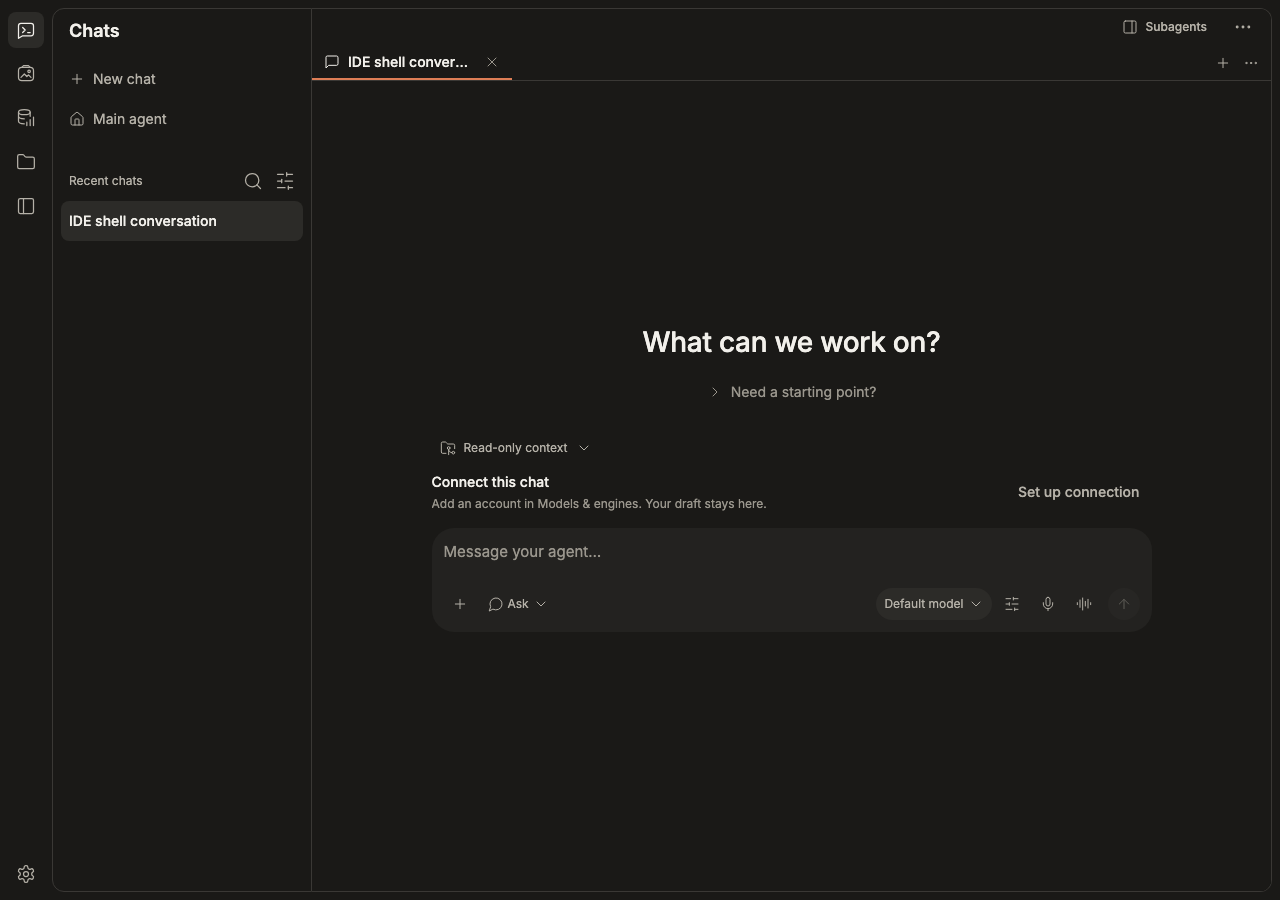
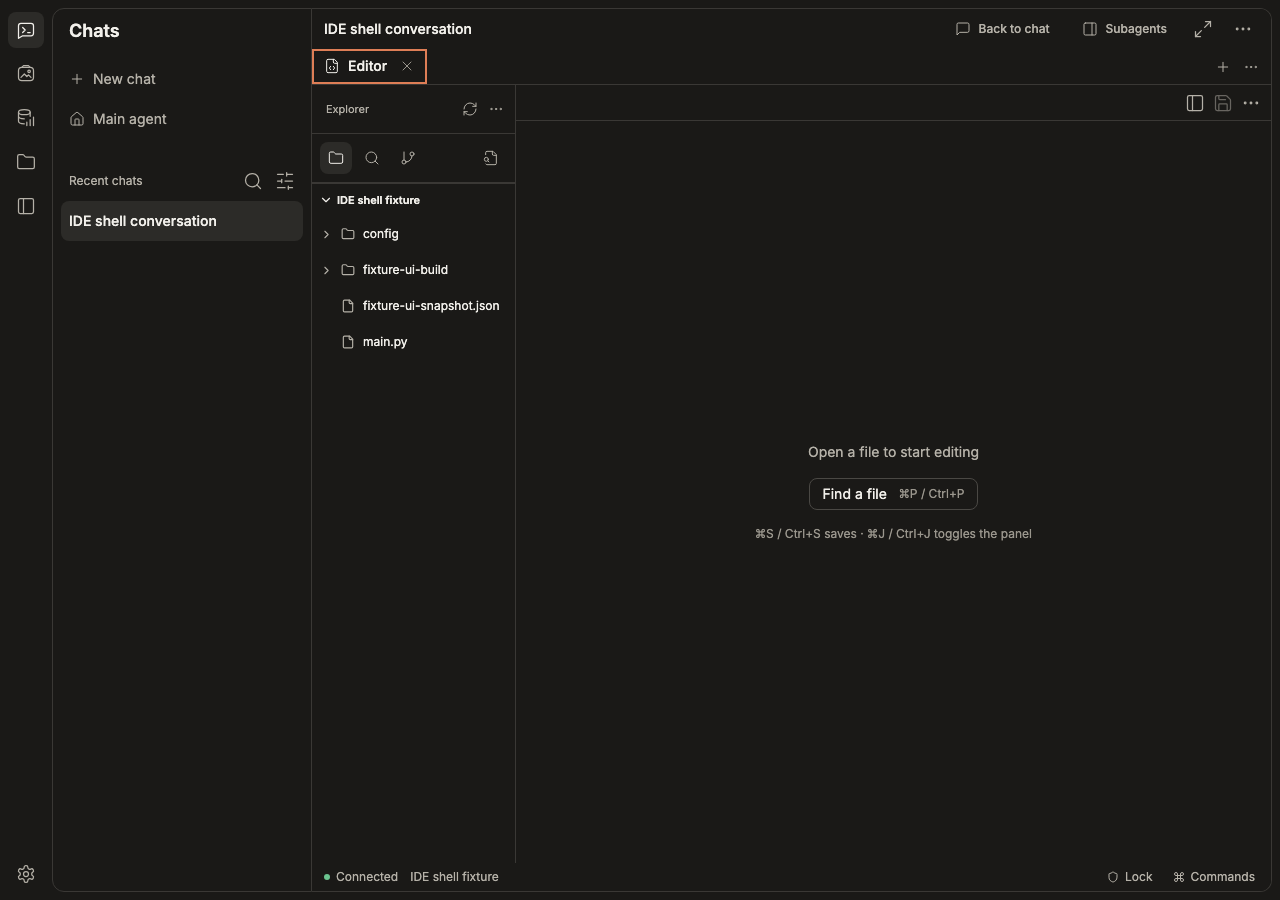
Document the layout engine; scroll the tab strip itself; capture every state at 375 and 1280
- docs/workspace-ui.md: the U3 section (model, reducer, rendering, storage, keys, what is not in the preview).
- The active tab stays in view when its strip overflows or a title arrives late (the strip scrolls, not its ancestors).
- Tests for the engine flag, tab refs, manager pages and the shell context helpers.
- U3 evidence: default, two-way split, three groups, panel with terminal, maximized and drag-over at 1280x900,
  and every state except the drag at 375x812, in light and dark.

diff --git a/desktop/workspace/src/shell/tree-layout.test.ts b/desktop/workspace/src/shell/tree-layout.test.ts
@@ -1,0 +1,141 @@
+import {afterEach, describe, expect, it} from 'vitest';
+import {allTabs, editorGroups, validateLayout, type Group} from '../lib/layout/model';
+import {
+  SHELL_ENGINE_KEY,
+  readShellEngine,
+  resetShellEngineMemory,
+  storedShellEngine,
+  urlShellEngine,
+  writeShellEngine,
+} from '../lib/shell-engine';
+import {managerReturnLabel, pageBehindSettings, statusContext, statusContextPath, isControlPage, runningBrowserTaskId} from './shell-context';
+import {managerTab, oneTabLayout, resolveTabRef} from './use-tree-layout';
+
+afterEach(() => {
+  localStorage.clear();
+  resetShellEngineMemory();
+});
+
+describe('the shell engine flag', () => {
+  it('reads ?shell=ide as the tab layout and ?shell=classic or legacy as the old dock', () => {
+    expect(urlShellEngine('?shell=ide')).toBe('tree');
+    expect(urlShellEngine('?shell=classic')).toBe('legacy');
+    expect(urlShellEngine('?shell=legacy')).toBe('legacy');
+    expect(urlShellEngine('?shell=other')).toBeNull();
+    expect(urlShellEngine('')).toBeNull();
+  });
+
+  it('defaults to the old dock, follows the stored choice, and lets the address win', () => {
+    expect(readShellEngine('', localStorage)).toBe('legacy');
+    localStorage.setItem(SHELL_ENGINE_KEY, 'on');
+    expect(storedShellEngine(localStorage)).toBe('tree');
+    expect(readShellEngine('', localStorage)).toBe('tree');
+    expect(readShellEngine('?shell=classic', localStorage)).toBe('legacy');
+    localStorage.setItem(SHELL_ENGINE_KEY, 'maybe');
+    expect(readShellEngine('', localStorage)).toBe('legacy');
+  });
+
+  it('writes and clears the stored choice, and survives storage that throws', () => {
+    writeShellEngine('tree', localStorage);
+    expect(localStorage.getItem(SHELL_ENGINE_KEY)).toBe('on');
+    writeShellEngine('legacy', localStorage);
+    expect(localStorage.getItem(SHELL_ENGINE_KEY)).toBeNull();
+    const broken = {
+      getItem: () => {
+        throw new Error('blocked');
+      },
+      setItem: () => {
+        throw new Error('blocked');
+      },
+      removeItem: () => {
+        throw new Error('blocked');
+      },
+    };
+    expect(storedShellEngine(broken)).toBe('legacy');
+    expect(() => writeShellEngine('tree', broken)).not.toThrow();
+  });
+
+  it('is named so a person can find and clear it', () => {
+    expect(SHELL_ENGINE_KEY).toBe('termx-new-workspace-layout');
+  });
+});
+
+describe('tab refs and manager pages', () => {
+  it('keeps tabs without a ref and checks the ones that have one', () => {
+    expect(resolveTabRef({id: 'a', kind: 'file'})).toBe(true);
+    expect(resolveTabRef({id: 'a', kind: 'settings', ref: 'models'})).toBe(true);
+    expect(resolveTabRef({id: 'a', kind: 'settings', ref: 'general'})).toBe(true);
+    expect(resolveTabRef({id: 'a', kind: 'settings', ref: 'nonsense'})).toBe(false);
+    expect(resolveTabRef({id: 'a', kind: 'projects', ref: 'tasks'})).toBe(true);
+    expect(resolveTabRef({id: 'a', kind: 'projects', ref: 'models'})).toBe(false);
+    expect(resolveTabRef({id: 'a', kind: 'workflows', ref: 'a'.repeat(32)})).toBe(true);
+    expect(resolveTabRef({id: 'a', kind: 'workflows', ref: 'not a run'})).toBe(false);
+  });
+
+  it('maps a manager page to a tab kind and ref', () => {
+    expect(managerTab('')).toBeNull();
+    expect(managerTab('workflows')).toEqual({kind: 'workflows'});
+    expect(managerTab('projects')).toEqual({kind: 'projects', ref: 'projects'});
+    expect(managerTab('overview')).toEqual({kind: 'projects', ref: 'overview'});
+    expect(managerTab('tasks')).toEqual({kind: 'projects', ref: 'tasks'});
+    expect(managerTab('models')).toEqual({kind: 'settings', ref: 'models'});
+    // Aliases resolve to their category.
+    expect(managerTab('appearance')).toEqual({kind: 'settings', ref: 'preferences'});
+    expect(managerTab('mcp')).toEqual({kind: 'settings', ref: 'connections'});
+  });
+
+  it('builds the one-tab layout a detached window opens with', () => {
+    const layout = oneTabLayout('file');
+    expect(editorGroups(layout.root)).toHaveLength(1);
+    expect(allTabs(layout).filter(tab => tab.kind === 'file')).toHaveLength(1);
+    expect((layout.root as Group).tabs.map(tab => tab.kind)).toEqual(['file']);
+    expect(layout.sideBar.visible).toBe(false);
+    expect(layout.panel.visible).toBe(false);
+    expect(validateLayout(layout)).toEqual(layout);
+  });
+});
+
+describe('shell context', () => {
+  const base = {
+    workspace: 'agent' as const,
+    manager: '',
+    previousManager: '',
+    session: null,
+    selected: '',
+    project: null,
+    projectWorkbenchId: '',
+    sessionsState: 'ready',
+    studioProject: null,
+    studioProjectId: '',
+  };
+
+  it('names the way back from a manager page', () => {
+    expect(managerReturnLabel(base)).toBe('Back to chat');
+    expect(managerReturnLabel({...base, projectWorkbenchId: 'p'})).toBe('Back to files');
+    expect(managerReturnLabel({...base, projectWorkbenchId: 'p', selected: 's'})).toBe('Back to chat');
+    expect(managerReturnLabel({...base, workspace: 'data'})).toBe('Back to Data');
+    expect(managerReturnLabel({...base, workspace: 'studio'})).toBe('Back to Studio');
+    expect(managerReturnLabel({...base, manager: 'models', previousManager: 'projects'})).toMatch(/^Back to /);
+  });
+
+  it('shows the project, or why there is none', () => {
+    expect(statusContext(base)).toBe('No project open');
+    expect(statusContext({...base, sessionsState: 'loading'})).toBe('Loading project context…');
+    expect(statusContext({...base, projectWorkbenchId: 'p'})).toBe('Project unavailable');
+    expect(statusContext({...base, workspace: 'data'})).toBe('Data workspace');
+    expect(statusContext({...base, workspace: 'studio'})).toBe('No project');
+    expect(statusContext({...base, workspace: 'studio', studioProjectId: 'x'})).toBe('Project unavailable');
+    expect(statusContext({...base, workspace: 'studio', studioProject: {name: 'Films'}})).toBe('Films');
+    expect(statusContextPath({...base, workspace: 'data'})).toBeUndefined();
+    expect(statusContextPath({...base, workspace: 'studio', studioProject: {name: 'Films', path: '/films'}})).toBe('/films');
+  });
+
+  it('tells control pages from other pages and finds the page behind settings', () => {
+    expect(isControlPage('overview')).toBe(true);
+    expect(isControlPage('tasks')).toBe(true);
+    expect(isControlPage('models')).toBe(false);
+    expect(pageBehindSettings('models', 'projects')).toBe('projects');
+    expect(pageBehindSettings('projects', 'tasks')).toBe('projects');
+    expect(runningBrowserTaskId(null)).toBeNull();
+  });
+});

diff --git a/desktop/workspace/src/components/shell/TabGroups.tsx b/desktop/workspace/src/components/shell/TabGroups.tsx
@@ -238,12 +238,20 @@ function GroupFrame(props: FrameProps) {
   const [menu, setMenu] = useState<{tab: Tab; x: number; y: number} | null>(null);
   const list = useRef<HTMLDivElement>(null);
   const active = group.tabs.find(tab => tab.id === group.active);
+  // A tab's title can change after it is shown (the conversation's name arrives late) and change its width.
+  const titles = group.tabs.map(titleOf).join('\u0000');
 
-  // Keep the active tab in view when the strip overflows.
+  // Keep the active tab in view when the strip overflows. Scroll the strip itself, not every ancestor: scrollIntoView would
+  // also shift an `overflow: hidden` workspace sideways.
   useEffect(() => {
-    if (!group.active) return;
-    document.getElementById('tab-' + group.active)?.scrollIntoView?.({block: 'nearest', inline: 'nearest'});
-  }, [group.active, group.tabs.length, rect.w]);
+    const strip = list.current;
+    const tab = group.active ? document.getElementById('tab-' + group.active) : null;
+    if (!strip || !tab) return;
+    const a = tab.getBoundingClientRect();
+    const b = strip.getBoundingClientRect();
+    if (a.left < b.left) strip.scrollLeft -= b.left - a.left;
+    else if (a.right > b.right) strip.scrollLeft += a.right - b.right;
+  }, [group.active, group.tabs.length, titles, rect.w]);
 
   function select(id: string) {
     if (props.onSelect) props.onSelect(id);

diff --git a/tests/workspace_ide_shell_e2e.py b/tests/workspace_ide_shell_e2e.py
@@ -131,10 +131,15 @@ def run(destination: str, axe_path: str | None) -> None:
                 page.on('pageerror', lambda error: report['errors'].append(str(error)))
                 step = lambda name: report['steps'].append(f'{scheme}: {name}')
 
-                def shot(label: str, width: int = 1280) -> None:
+                books: dict[str, dict] = {}
+
+                def shot(label: str, width: int = 1280, remember: bool = True) -> None:
                     settle(page)
                     page.screenshot(path=str(out / f'{label}-{scheme}-{width}.png'))
                     no_overflow(page, f'{label}-{scheme}-{width}', report)
+                    if remember:
+                        page.wait_for_timeout(300)
+                        books[label] = stored_layout(page)
 
                 # --- default layout: one group, the chat, the side bar open, no panel ---------------------------
                 sign_in(page, base, session['id'])
@@ -197,13 +202,14 @@ def run(destination: str, axe_path: str | None) -> None:
                 page.mouse.move(target_box['x'] + 30, target_box['y'] + target_box['height'] / 2 + 40, steps=12)
                 hint = page.locator('.tab-drop')
                 expect(hint).to_have_attribute('data-zone', 'left')
-                shot('drag-over-drop-zone')
+                shot('drag-over-drop-zone', remember=False)
                 page.mouse.up()
                 expect(page.locator('.tab-drop')).to_have_count(0)
                 step('dragged a tab to the left drop zone of another group')
 
                 # --- maximize and restore -----------------------------------------------------------------------------------
                 count = groups(page)
+                page.get_by_role('tab', name='Editor').click()
                 page.keyboard.press('ControlOrMeta+k')
                 page.keyboard.press('z')
                 expect(page.locator(EDITOR_GROUPS)).to_have_count(1)
@@ -240,7 +246,7 @@ def run(destination: str, axe_path: str | None) -> None:
                 no_overflow(page, f'{scheme}-1280', report)
                 context.close()
 
-                # --- the 375px projection --------------------------------------------------------------------------------------------
+                # --- the 375px projection: every desktop state, folded into one tab stack ----------------------------------
                 phone = browser.new_context(viewport={'width': 375, 'height': 812}, color_scheme=scheme, reduced_motion='reduce', has_touch=False)
                 small = phone.new_page()
                 small.on('pageerror', lambda error: report['errors'].append(str(error)))
@@ -249,28 +255,35 @@ def run(destination: str, axe_path: str | None) -> None:
                 small.get_by_label('Password', exact=True).fill(PASSWORD)
                 small.get_by_role('button', name='Continue with password').click()
                 small.locator('.tab-list').first.wait_for(timeout=60000)
-                # Start from the same stored layout as the desktop window: let the first layout finish saving, copy the
-                # desktop book over it and reload.
-                small.wait_for_timeout(600)
-                small.evaluate("(layout) => { const key = Object.keys(localStorage).find(item => item.startsWith('termx-layout-v2:')) || 'termx-layout-v2:x'; localStorage.setItem(key, JSON.stringify(layout)) }", saved)
-                small.reload()
-                small.locator('.tab-list').first.wait_for(timeout=60000)
-                assert small.locator('.tab-list').count() == 1, 'one stack on a phone'
-                assert small.get_by_role('separator', name='Resize groups').count() == 0
+                small.wait_for_timeout(600)  # let the first layout finish saving before it is replaced
+
+                def seed(book: dict) -> None:
+                    small.evaluate("(book) => { const key = Object.keys(localStorage).find(item => item.startsWith('termx-layout-v2:')) || 'termx-layout-v2:x'; localStorage.setItem(key, JSON.stringify(book)) }", book)
+                    small.reload()
+                    small.locator('.tab-list').first.wait_for(timeout=60000)
+                    settle(small)
+
+                for label, book in books.items():
+                    seed(book)
+                    assert small.locator('.tab-list').count() == 1, f'{label}: one stack on a phone'
+                    assert small.get_by_role('separator', name='Resize groups').count() == 0
+                    small.screenshot(path=str(out / f'{label}-{scheme}-375.png'))
+                    no_overflow(small, f'{label}-{scheme}-375', report)
+                    if label == 'panel-with-terminal':
+                        axe(small, f'{scheme}-375-{label}', report, axe_source)
+
+                seed(saved)
                 small.get_by_role('button', name='Tab actions').click()
                 items = small.get_by_role('menuitem').all_inner_texts()
                 assert 'Split right' not in items and 'Split down' not in items, items
                 small.keyboard.press('Escape')
-                settle(small)
-                small.screenshot(path=str(out / f'phone-projection-{scheme}-375.png'))
-                no_overflow(small, f'phone-{scheme}-375', report)
                 tabs_on_phone = small.get_by_role('tab').count()
                 small.get_by_role('tab').nth(min(1, tabs_on_phone - 1)).click()
                 settle(small)
                 after_phone = stored_layout(small)
                 assert editor_group_count(after_phone) == editor_group_count(saved), f'a phone session must not change the tree: {json.dumps(saved["current"]["root"])} -> {json.dumps(after_phone["current"]["root"])}'
                 axe(small, f'{scheme}-375-layout', report, axe_source)
-                step(f'375px: one tab stack of {tabs_on_phone} tabs, tree unchanged')
+                step(f'375px: {len(books)} desktop layouts shown as one tab stack of {tabs_on_phone} tabs, tree unchanged')
                 phone.close()
             browser.close()
 

diff --git a/docs/workspace-ui.md b/docs/workspace-ui.md
@@ -12,7 +12,7 @@ TermX is moving from a ChatGPT-style chat frame to an **agent-first IDE shell**:
 
 | **U1 Editor and terminal polish** | Editor and ANSI themes, languages, find, fold, terminal tabs | Landed in this branch, on the current shell |
 | U2 Decompose `App.tsx` and commands | `shell/routes.ts`, one command registry feeding palette, keys and menus | Planned |
-| U3 Layout engine | Recursive split tree, tab groups, v1 layout migration, detach mapping | Planned |
+| **U3 Layout engine** | Recursive split tree, tab groups, v1 layout migration, detach mapping | Landed in this branch, behind `?shell=ide` and a Settings toggle (see below) |
 | U4 Chrome | Activity bar, side bar, title and status bars, mobile projection; Settings, Projects, Workflows as tabs | Planned |
 | U5 Source control | Merged source control view and diff tab | Planned |
 | U6 Agent surfaces | Sites view, CLI session tabs and badges, needs-you approvals, health in the status bar | Planned |
@@ -24,6 +24,21 @@ The IDE shell is built behind `?shell=ide` and a Settings toggle until U7. The r
 
 - **Editor** (`src/features/Workbench.tsx`, `src/features/editor/`). `editor-theme.ts` is a CodeMirror theme made only of CSS variables (`--bg`, `--text`, `--surface-2`, `--selection`, `--syntax-*`, the diff tints), so light, dark and system switch without reconfiguring or re-creating the editor; the theme test fails on a literal colour. The grammar comes from the file extension through the lazily loaded `@codemirror/language-data` (`language.ts`); an unknown extension is plain text. The editor has line numbers, active-line highlight, a fold gutter, bracket matching, find and replace (`Mod+F`; `Mod+Alt+F` focuses replace) and breadcrumbs under the tab strip. Code is 14/20 mono; the caret stops blinking under `prefers-reduced-motion`.
 - **Terminal** (`src/features/TerminalPanel.tsx`, `src/features/terminal/`). `terminal-theme.ts` reads the 16 `--ansi-*` colours, `--bg`, `--text`, `--accent` and `--selection` from computed variables and re-applies them when `data-theme`, the `dark` class or the system colour scheme changes. Sessions are Radix tabs (36px, arrow keys, Home, End) with one xterm per PTY, each kept mounted and connected while its tab is hidden. `+` opens a terminal, the tab mark or the toolbar's **Close terminal** ends the shell (`delete_session`). `Mod+F` in the terminal opens find (Control+Shift+F off macOS; plain Control+F stays shell input); web links open on Command-click or Control-click. The PTY websocket protocol is unchanged.
+
+### U3: layout engine (preview)
+
+The tab-group layout is a preview: it is used when the address has `?shell=ide`, or when **Settings > General > Use the new workspace layout (preview)** is on (stored in `localStorage` under `termx-new-workspace-layout`; `?shell=classic` forces the old dock). The old dock stays the default, keeps its own storage, and is removed in U7. The toggle takes effect at once, without a reload.
+
+- **Model** (`src/lib/layout/model.ts`). `Layout {version: 2, root, panel, sideBar, focus, maximized}`. `root` is a split tree: a `Split {id, dir, sizes, children}` or a `Group {id, tabs, active}`. A `Tab` is `{id, kind, ref?, pinned?}` with 13 kinds: `chat`, `file`, `diff`, `terminal`, `cli`, `browser`, `computer`, `artifacts`, `data`, `studio`, `settings`, `projects`, `workflows`. `panel` is the bottom panel (its own group, a height in px, visible or not); `sideBar` has a view, a width and visibility. `validateLayout` rejects more than 6 levels, 12 groups, 64 tabs or 256 KB; it drops tabs of unknown kind or with a `ref` that no longer resolves, normalises split sizes to sum to 1 (no pane under 5%), collapses empty groups and one-child splits, and never leaves an empty root (it falls back to the Chat tab). A book holds the current layout and up to 30 named layouts.
+- **Reducer** (`reduce.ts`). Pure. Open (reveals an existing tab of the kind instead of adding a second), close with a reopen stack of 20, move, split, resize, maximize and restore, set active, cycle, focus, side bar and panel toggles and sizes, saved layouts, reset, and an undo stack of 20 (a drag of one splitter is one step). Empty groups collapse on their own, except the focused one, so a split of a lone tab leaves an empty group you can fill.
+- **Singletons.** Every kind is a singleton in this release, because each panel the layout wraps is one component with its own inner tabs (terminal sessions, editor files, browser tabs). The `ref` retargets the one tab: the Chat tab follows the selected conversation, Settings shows the category in its `ref`, Projects one of Overview, Projects and Activity, Workflows a run. The reducer supports multi-instance kinds (dedupe by kind and `ref`, `forceNew`); add a kind to `MULTI_INSTANCE_KINDS` when its host renders one instance per `ref`.
+- **Rendering** (`components/shell/TabGroups.tsx`, `ContentLayer.tsx`). `layoutRects(layout, width, height)` gives every group, splitter and drop zone its rectangle. Tab content is rendered in one flat layer, keyed by tab id and kept in first-shown order, and only its rectangle changes when a tab moves, so a terminal, an editor or a browser stream stays mounted. Inactive tabs are `hidden` and `inert`. A tab strip is a Radix tablist (arrows, Home, End, automatic activation) with a `+` menu and a Tab actions menu; the same menu is on right click. Splitters are 1px lines with an 8px hit area, `role="separator"`, and resize with the arrow keys (Shift for larger steps), Home, End, and Enter to reset. A tab is dragged with the pointer to one of five drop zones (centre, or the outer quarter of a side to split that side); touch and keyboard use the menu (Split right, Split down, Move to other group, Maximize group, Move to new window, Reveal).
+- **Phone.** Under 768px the tree is projected, at render time only, into one tab stack with the split commands hidden. Switching tabs there never writes to the stored layout.
+- **Storage and migration** (`store.ts`, `migrate-v1.ts`). `termx-layout-v2:<json [owner, device]>`, the same owner and device keying as `termx-layout-presets-v1:`. The first read with no v2 book migrates the v1 presets (regions become a row of groups, pixel widths become fractions of a 1280px reference window, `left` becomes the side bar, `right` keeps or drops the right group, `bottom` becomes the panel) and adds the eight built-in presets as named layouts (Chat, Code + chat, Browser + chat, Computer + chat, Artifacts + chat, Review + chat, Terminal + chat, Focus; Focus is the editor maximized beside the chat). The v1 key is never written. A detached window shows one tab and never writes the layout.
+- **Settings, Projects and Workflows as tabs.** They render the same components without dialog chrome. Closing a Settings tab with unsaved edits asks first, through the same discard dialog (`SETTINGS_LEAVE`); so do Close others, Close group, Saved layouts and Reset layout when they would drop it.
+- **Detach.** "Move to new window" calls the existing detach flow. `shell/window-panel.ts` maps a kind to one of the seven `valid_panel` strings (`file` to `workbench`, `diff` to `review`, `cli` to `terminal`); Settings, Projects, Workflows, Data and Studio cannot move. The redock payload is unchanged.
+- **Keys** (new layout only unless noted). `Mod+\` split right, `Mod+K Mod+\` split down, `Mod+1` to `Mod+3` focus a group, `Mod+K Z` maximize group (Escape restores), `Ctrl+Shift+backtick` new terminal; `Mod+W` closes the active tab, `Shift+Mod+T` reopens it, `Ctrl+Tab` and `Ctrl+Shift+Tab` cycle tabs, `Mod+B` side bar and `Mod+J` bottom panel work in both layouts. In the old dock `Mod+1` to `Mod+3` still open Chat, Workbench and Browser; commands carry the engine they belong to, so the two sets never shadow each other.
+- **Not in the preview yet.** The editor's own bottom drawer (Problems, Run & debug, Preview) is closed because the layout has a real bottom panel; they return as panel tabs in later slices. The side bar still shows the chat list (U4 adds the views), Data and Studio are opened as workspaces from the rail or as tabs from the `+` menu (U7 makes them views), and CLI session tabs wait for host support (U6).
 
 ## Visual baseline
 
@@ -89,7 +104,7 @@ Breakpoint 850 moves to 768, and the reading column is 720px.
 
 TermX, Chat, Agents, Main agent, Sub-agents, CLI sessions, Explorer, Editor, Search, Source control, Browser, Sites, Terminal, Computer, Artifacts, Data, Studio, Projects, Workflows, Settings. Retire Workbench, Files & code, Review changes, Git changes, Delivery and Workspace actions.
 
-### Keys (VS Code conventions, planned)
+### Keys (VS Code conventions; the tab-group keys are live in the preview)
 
 `Mod+P` and `Mod+Shift+P`, `Mod+B`, `Mod+J`, `Ctrl+backtick` terminal, `Mod+Shift+E`, `Mod+Shift+F` and `Ctrl+Shift+G` for Explorer, Search and Source control, `Mod+,` settings, `Mod+\` split, `Mod+1` to `Mod+3` focus a group, `Ctrl+Tab` next tab, `Mod+W` closes the active tab, `Mod+F` find. Terminal focus stops disabling shell shortcuts; an allowlist replaces the blanket bail-out. Until U2 and U4 land, the shortcut table under **Superseded** remains the shipped behaviour.
 
